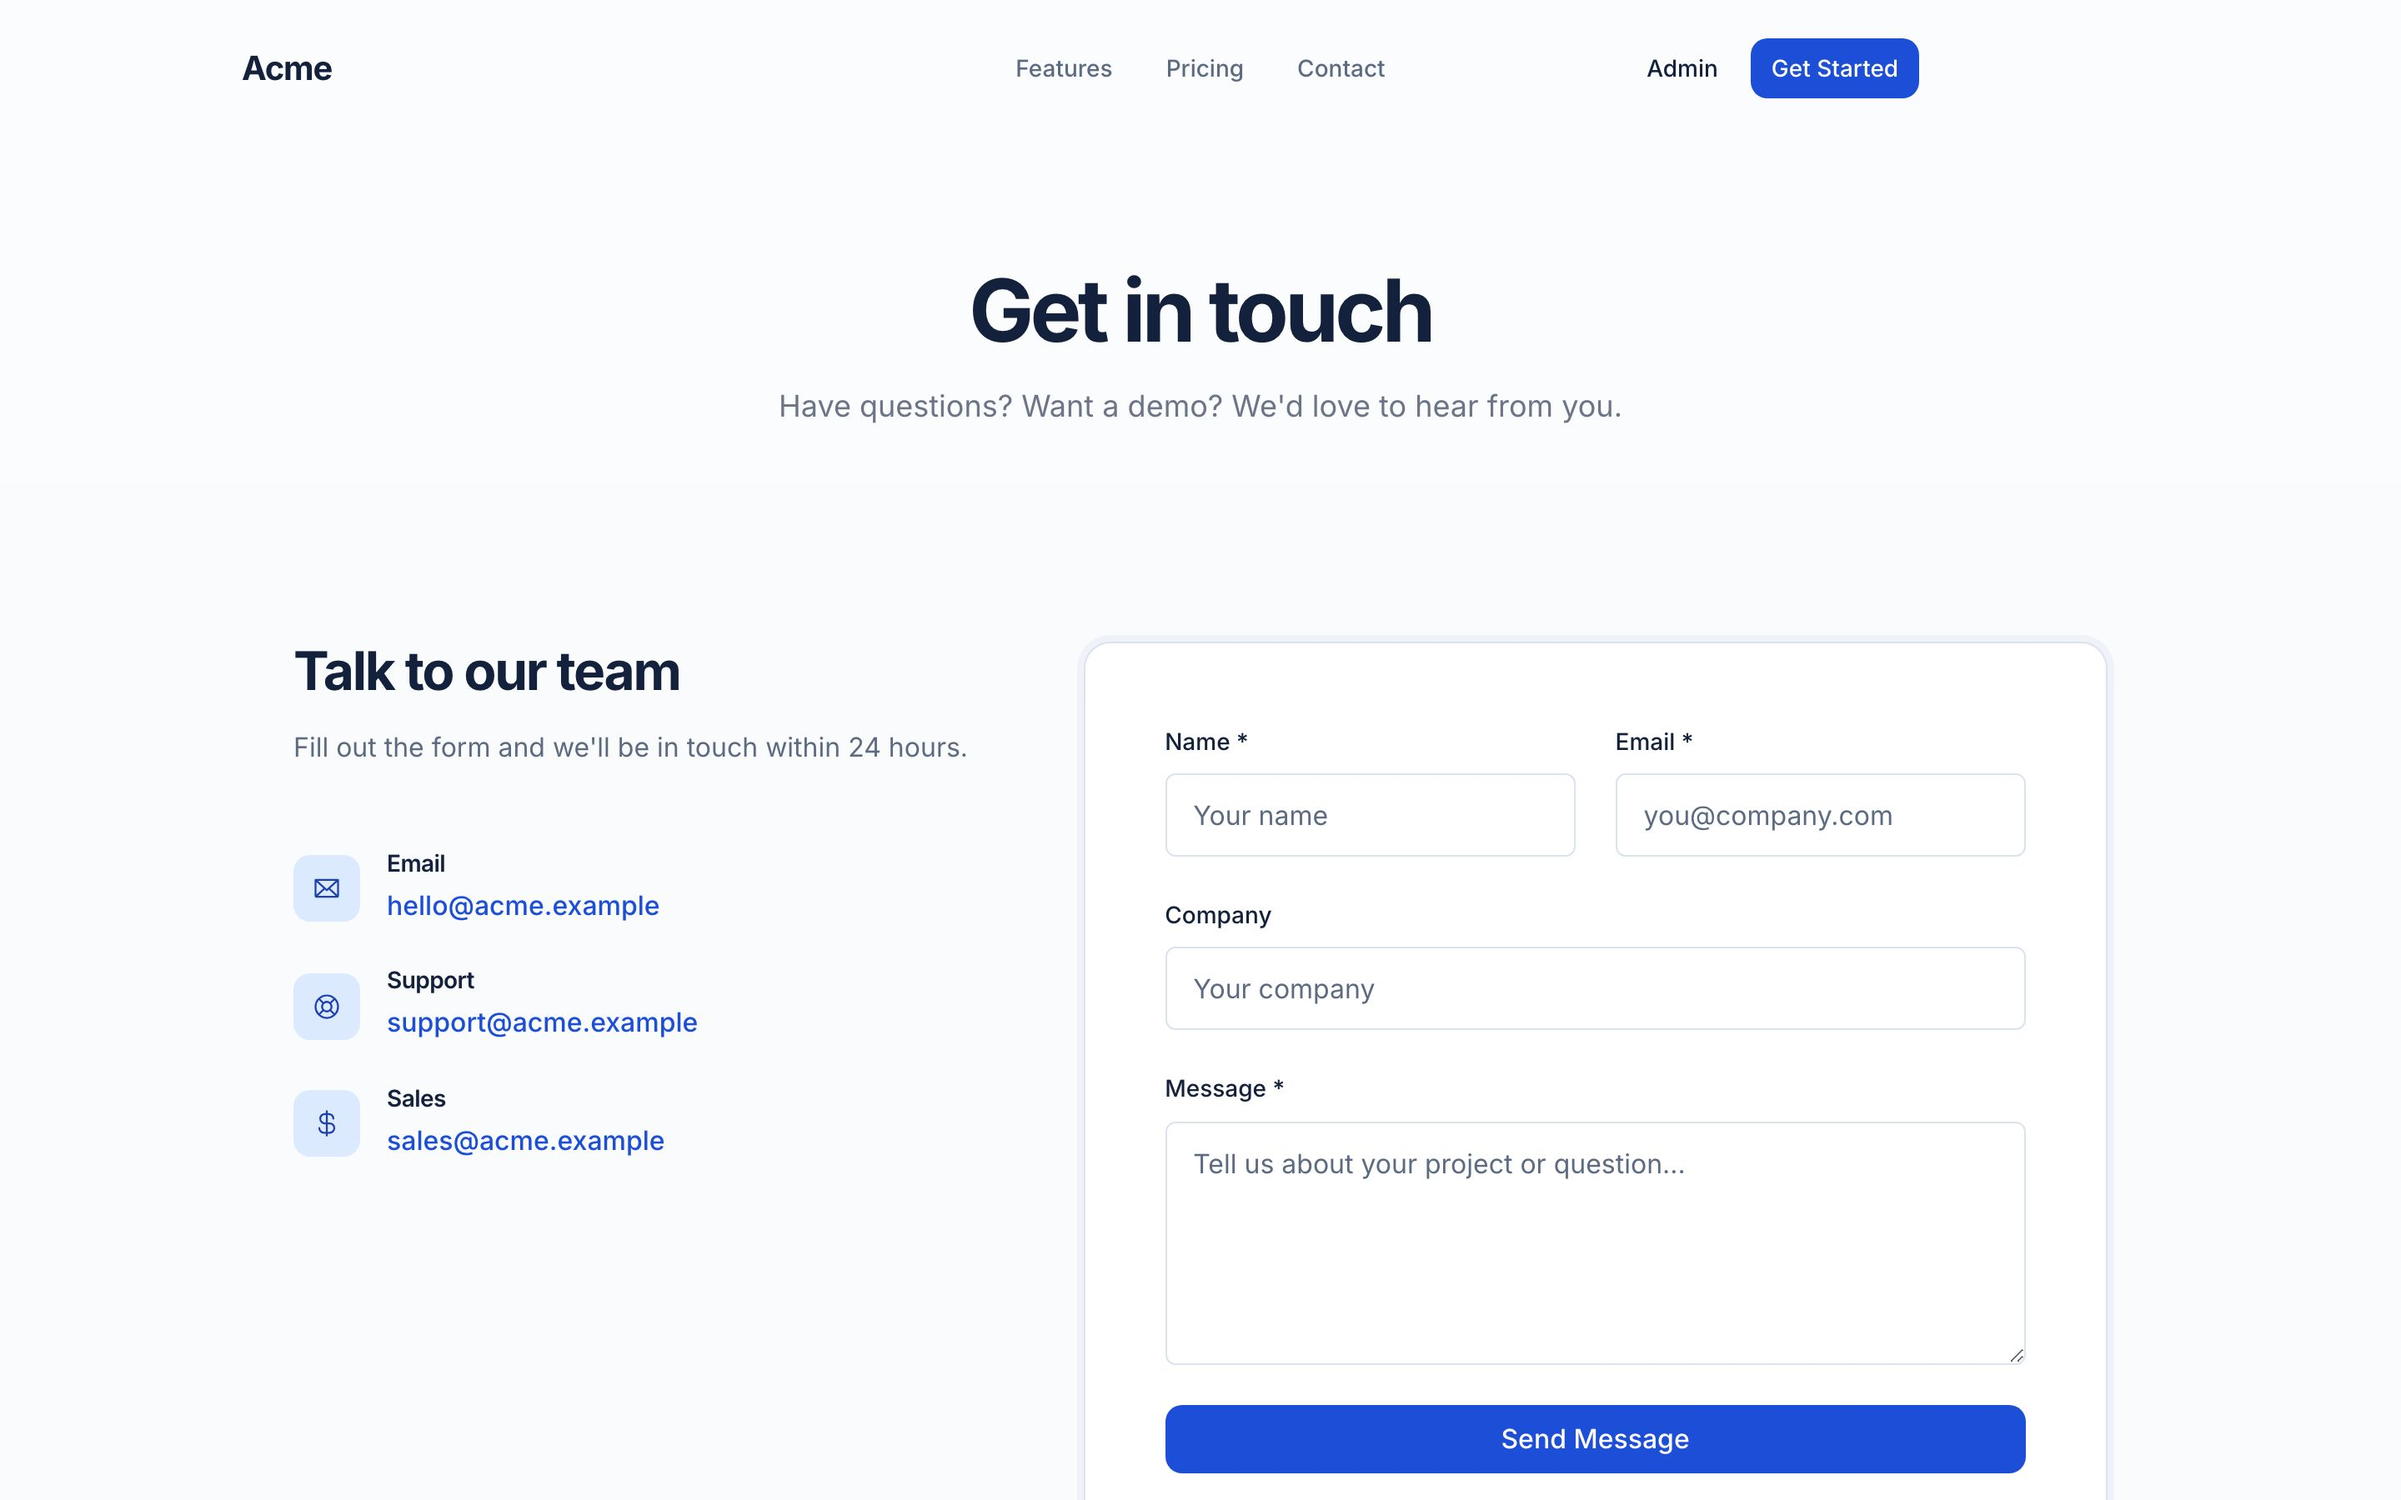
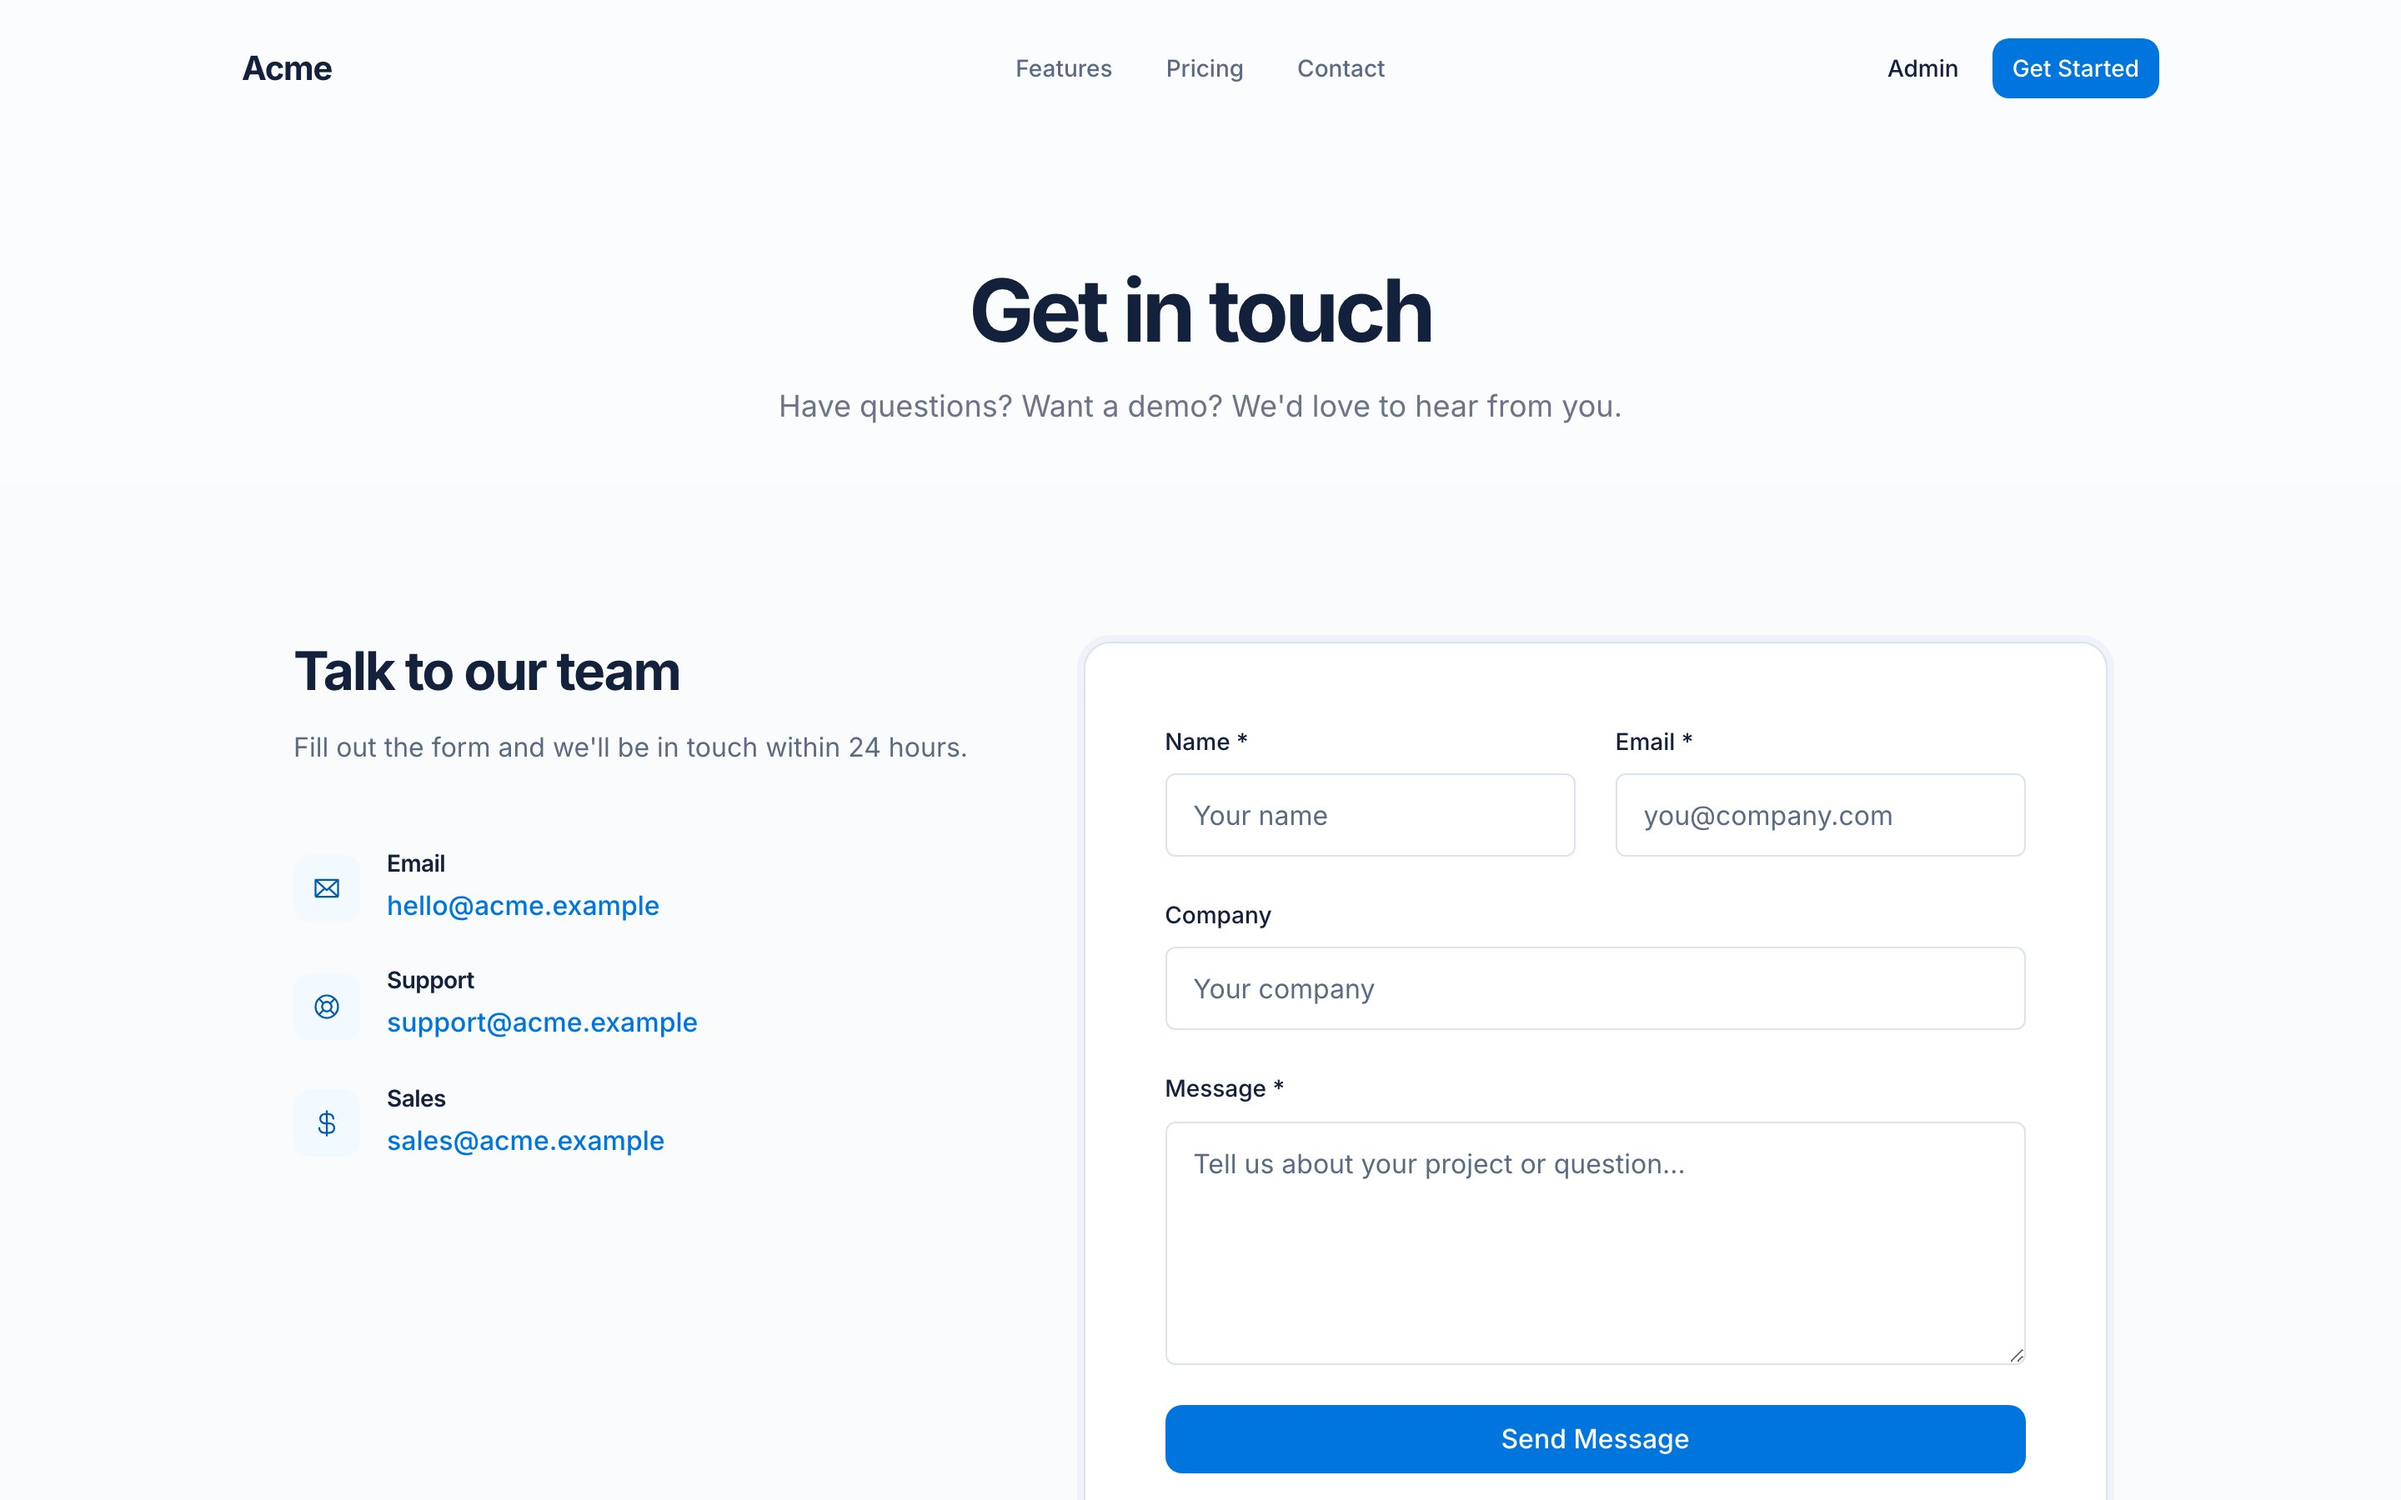
feat(marketing): refine the blue color system

diff --git a/templates/marketing-cloudflare/src/styles/tokens.css b/templates/marketing-cloudflare/src/styles/tokens.css
@@ -12,14 +12,14 @@
 		color-scheme: light dark;
 
 		/* Accent scale */
-		--heat-4: #1d4ed80a;
-		--heat-8: #1d4ed814;
-		--heat-12: #1d4ed81f;
-		--heat-16: #1d4ed829;
-		--heat-20: #1d4ed833;
-		--heat-40: #1d4ed866;
-		--heat-90: #1d4ed8e6;
-		--heat-100: #1d4ed8ff;
+		--heat-4: #0075de0a;
+		--heat-8: #0075de14;
+		--heat-12: #0075de1f;
+		--heat-16: #0075de29;
+		--heat-20: #0075de33;
+		--heat-40: #0075de66;
+		--heat-90: #0075dee6;
+		--heat-100: #0075deff;
 
 		/* Neutral scale */
 		--accent-black: #14213dff;
@@ -47,9 +47,9 @@
 		--color-surface: var(--surface);
 		--color-surface-raised: var(--surface-raised);
 		--color-primary: var(--heat-100);
-		--color-primary-dark: var(--heat-90);
+		--color-primary-dark: #005bab;
 		--color-primary-light: var(--heat-12);
-		--color-accent: var(--heat-100);
+		--color-accent: #005bab;
 		--color-accent-light: var(--heat-12);
 		--color-success: #15803d;
 		--color-warning: #a16207;
@@ -58,8 +58,9 @@
 
 		/* Public-template compatibility aliases */
 		--color-brand: var(--color-primary);
-		--color-brand-strong: #1e40af;
-		--color-brand-soft: #dbeafe;
+		--color-brand-hover: var(--color-primary-dark);
+		--color-brand-strong: #005bab;
+		--color-brand-soft: #f2f9ff;
 		--color-on-brand: #ffffff;
 		--color-brand-ring: var(--heat-12);
 		--gradient-brand: var(--color-primary);
@@ -73,7 +74,8 @@
 		--button-padding-y: 8px;
 		--button-padding-x: 12px;
 		--button-primary-bg: var(--heat-100);
-		--button-primary-bg-hover: var(--heat-90);
+		--button-primary-bg-hover: #006bcb;
+		--button-primary-bg-active: #005bab;
 		--button-primary-fg: var(--accent-white);
 		--button-secondary-bg: var(--black-alpha-4);
 		--button-secondary-bg-hover: var(--black-alpha-6);
@@ -162,8 +164,9 @@
 			--color-border: var(--border-muted);
 			--color-surface: var(--surface);
 			--color-surface-raised: var(--surface-raised);
-			--color-brand-strong: #3b82f6;
-			--color-brand-soft: #1e3a5f;
+			--color-brand-hover: #82c1f5;
+			--color-brand-strong: #82c1f5;
+			--color-brand-soft: #163a5c;
 			--color-on-brand: #0b1220;
 			--button-secondary-bg: var(--black-alpha-4);
 			--button-secondary-bg-hover: var(--black-alpha-6);
@@ -200,8 +203,9 @@
 		--color-border: var(--border-muted);
 		--color-surface: var(--surface);
 		--color-surface-raised: var(--surface-raised);
-		--color-brand-strong: #3b82f6;
-		--color-brand-soft: #1e3a5f;
+		--color-brand-hover: #82c1f5;
+		--color-brand-strong: #82c1f5;
+		--color-brand-soft: #163a5c;
 		--color-on-brand: #0b1220;
 		--button-secondary-bg: var(--black-alpha-4);
 		--button-secondary-bg-hover: var(--black-alpha-6);

diff --git a/templates/marketing/src/styles/tokens.css b/templates/marketing/src/styles/tokens.css
@@ -12,14 +12,14 @@
 		color-scheme: light dark;
 
 		/* Accent scale */
-		--heat-4: #1d4ed80a;
-		--heat-8: #1d4ed814;
-		--heat-12: #1d4ed81f;
-		--heat-16: #1d4ed829;
-		--heat-20: #1d4ed833;
-		--heat-40: #1d4ed866;
-		--heat-90: #1d4ed8e6;
-		--heat-100: #1d4ed8ff;
+		--heat-4: #0075de0a;
+		--heat-8: #0075de14;
+		--heat-12: #0075de1f;
+		--heat-16: #0075de29;
+		--heat-20: #0075de33;
+		--heat-40: #0075de66;
+		--heat-90: #0075dee6;
+		--heat-100: #0075deff;
 
 		/* Neutral scale */
 		--accent-black: #14213dff;
@@ -47,9 +47,9 @@
 		--color-surface: var(--surface);
 		--color-surface-raised: var(--surface-raised);
 		--color-primary: var(--heat-100);
-		--color-primary-dark: var(--heat-90);
+		--color-primary-dark: #005bab;
 		--color-primary-light: var(--heat-12);
-		--color-accent: var(--heat-100);
+		--color-accent: #005bab;
 		--color-accent-light: var(--heat-12);
 		--color-success: #15803d;
 		--color-warning: #a16207;
@@ -58,8 +58,9 @@
 
 		/* Public-template compatibility aliases */
 		--color-brand: var(--color-primary);
-		--color-brand-strong: #1e40af;
-		--color-brand-soft: #dbeafe;
+		--color-brand-hover: var(--color-primary-dark);
+		--color-brand-strong: #005bab;
+		--color-brand-soft: #f2f9ff;
 		--color-on-brand: #ffffff;
 		--color-brand-ring: var(--heat-12);
 		--gradient-brand: var(--color-primary);
@@ -73,7 +74,8 @@
 		--button-padding-y: 8px;
 		--button-padding-x: 12px;
 		--button-primary-bg: var(--heat-100);
-		--button-primary-bg-hover: var(--heat-90);
+		--button-primary-bg-hover: #006bcb;
+		--button-primary-bg-active: #005bab;
 		--button-primary-fg: var(--accent-white);
 		--button-secondary-bg: var(--black-alpha-4);
 		--button-secondary-bg-hover: var(--black-alpha-6);
@@ -162,8 +164,9 @@
 			--color-border: var(--border-muted);
 			--color-surface: var(--surface);
 			--color-surface-raised: var(--surface-raised);
-			--color-brand-strong: #3b82f6;
-			--color-brand-soft: #1e3a5f;
+			--color-brand-hover: #82c1f5;
+			--color-brand-strong: #82c1f5;
+			--color-brand-soft: #163a5c;
 			--color-on-brand: #0b1220;
 			--button-secondary-bg: var(--black-alpha-4);
 			--button-secondary-bg-hover: var(--black-alpha-6);
@@ -200,8 +203,9 @@
 		--color-border: var(--border-muted);
 		--color-surface: var(--surface);
 		--color-surface-raised: var(--surface-raised);
-		--color-brand-strong: #3b82f6;
-		--color-brand-soft: #1e3a5f;
+		--color-brand-hover: #82c1f5;
+		--color-brand-strong: #82c1f5;
+		--color-brand-soft: #163a5c;
 		--color-on-brand: #0b1220;
 		--button-secondary-bg: var(--black-alpha-4);
 		--button-secondary-bg-hover: var(--black-alpha-6);

diff --git a/templates/marketing-cloudflare/src/styles/theme.css b/templates/marketing-cloudflare/src/styles/theme.css
@@ -7,51 +7,66 @@
 */
 
 :root {
-	--heat-100: #1d4ed8;
-	--heat-90: #1d4ed8e6;
-	--heat-40: #1d4ed866;
-	--heat-20: #1d4ed833;
-	--heat-12: #1d4ed81f;
-	--heat-8: #1d4ed814;
-	--heat-4: #1d4ed80a;
+	--heat-100: #0075de;
+	--heat-90: #0075dee6;
+	--heat-40: #0075de66;
+	--heat-20: #0075de33;
+	--heat-12: #0075de1f;
+	--heat-8: #0075de14;
+	--heat-4: #0075de0a;
 	--color-primary: var(--heat-100);
-	--color-primary-dark: var(--heat-90);
+	--color-primary-dark: #005bab;
 	--color-primary-light: var(--heat-12);
-	--color-accent: var(--heat-100);
+	--color-accent: #005bab;
 	--color-accent-light: var(--heat-12);
+	--color-brand-hover: #005bab;
+	--color-brand-strong: #005bab;
+	--color-brand-soft: #f2f9ff;
+	--button-primary-bg-hover: #006bcb;
+	--button-primary-bg-active: #005bab;
 	--button-primary-fg: #ffffff;
 }
 
 :root.dark {
-	--heat-100: #60a5fa;
-	--heat-90: #60a5fae6;
-	--heat-40: #60a5fa66;
-	--heat-20: #60a5fa33;
-	--heat-12: #60a5fa1f;
-	--heat-8: #60a5fa14;
-	--heat-4: #60a5fa0a;
+	--heat-100: #62aef0;
+	--heat-90: #62aef0e6;
+	--heat-40: #62aef066;
+	--heat-20: #62aef033;
+	--heat-12: #62aef01f;
+	--heat-8: #62aef014;
+	--heat-4: #62aef00a;
 	--color-primary: var(--heat-100);
-	--color-primary-dark: var(--heat-90);
+	--color-primary-dark: #3d98e6;
 	--color-primary-light: var(--heat-12);
-	--color-accent: var(--heat-100);
+	--color-accent: #82c1f5;
 	--color-accent-light: var(--heat-12);
+	--color-brand-hover: #82c1f5;
+	--color-brand-strong: #82c1f5;
+	--color-brand-soft: #163a5c;
+	--button-primary-bg-hover: #82c1f5;
+	--button-primary-bg-active: #3d98e6;
 	--button-primary-fg: #0b1220;
 }
 
 @media (prefers-color-scheme: dark) {
 	:root:not(.light) {
-		--heat-100: #60a5fa;
-		--heat-90: #60a5fae6;
-		--heat-40: #60a5fa66;
-		--heat-20: #60a5fa33;
-		--heat-12: #60a5fa1f;
-		--heat-8: #60a5fa14;
-		--heat-4: #60a5fa0a;
+		--heat-100: #62aef0;
+		--heat-90: #62aef0e6;
+		--heat-40: #62aef066;
+		--heat-20: #62aef033;
+		--heat-12: #62aef01f;
+		--heat-8: #62aef014;
+		--heat-4: #62aef00a;
 		--color-primary: var(--heat-100);
-		--color-primary-dark: var(--heat-90);
+		--color-primary-dark: #3d98e6;
 		--color-primary-light: var(--heat-12);
-		--color-accent: var(--heat-100);
+		--color-accent: #82c1f5;
 		--color-accent-light: var(--heat-12);
+		--color-brand-hover: #82c1f5;
+		--color-brand-strong: #82c1f5;
+		--color-brand-soft: #163a5c;
+		--button-primary-bg-hover: #82c1f5;
+		--button-primary-bg-active: #3d98e6;
 		--button-primary-fg: #0b1220;
 	}
 }

diff --git a/templates/marketing/src/styles/theme.css b/templates/marketing/src/styles/theme.css
@@ -7,51 +7,66 @@
 */
 
 :root {
-	--heat-100: #1d4ed8;
-	--heat-90: #1d4ed8e6;
-	--heat-40: #1d4ed866;
-	--heat-20: #1d4ed833;
-	--heat-12: #1d4ed81f;
-	--heat-8: #1d4ed814;
-	--heat-4: #1d4ed80a;
+	--heat-100: #0075de;
+	--heat-90: #0075dee6;
+	--heat-40: #0075de66;
+	--heat-20: #0075de33;
+	--heat-12: #0075de1f;
+	--heat-8: #0075de14;
+	--heat-4: #0075de0a;
 	--color-primary: var(--heat-100);
-	--color-primary-dark: var(--heat-90);
+	--color-primary-dark: #005bab;
 	--color-primary-light: var(--heat-12);
-	--color-accent: var(--heat-100);
+	--color-accent: #005bab;
 	--color-accent-light: var(--heat-12);
+	--color-brand-hover: #005bab;
+	--color-brand-strong: #005bab;
+	--color-brand-soft: #f2f9ff;
+	--button-primary-bg-hover: #006bcb;
+	--button-primary-bg-active: #005bab;
 	--button-primary-fg: #ffffff;
 }
 
 :root.dark {
-	--heat-100: #60a5fa;
-	--heat-90: #60a5fae6;
-	--heat-40: #60a5fa66;
-	--heat-20: #60a5fa33;
-	--heat-12: #60a5fa1f;
-	--heat-8: #60a5fa14;
-	--heat-4: #60a5fa0a;
+	--heat-100: #62aef0;
+	--heat-90: #62aef0e6;
+	--heat-40: #62aef066;
+	--heat-20: #62aef033;
+	--heat-12: #62aef01f;
+	--heat-8: #62aef014;
+	--heat-4: #62aef00a;
 	--color-primary: var(--heat-100);
-	--color-primary-dark: var(--heat-90);
+	--color-primary-dark: #3d98e6;
 	--color-primary-light: var(--heat-12);
-	--color-accent: var(--heat-100);
+	--color-accent: #82c1f5;
 	--color-accent-light: var(--heat-12);
+	--color-brand-hover: #82c1f5;
+	--color-brand-strong: #82c1f5;
+	--color-brand-soft: #163a5c;
+	--button-primary-bg-hover: #82c1f5;
+	--button-primary-bg-active: #3d98e6;
 	--button-primary-fg: #0b1220;
 }
 
 @media (prefers-color-scheme: dark) {
 	:root:not(.light) {
-		--heat-100: #60a5fa;
-		--heat-90: #60a5fae6;
-		--heat-40: #60a5fa66;
-		--heat-20: #60a5fa33;
-		--heat-12: #60a5fa1f;
-		--heat-8: #60a5fa14;
-		--heat-4: #60a5fa0a;
+		--heat-100: #62aef0;
+		--heat-90: #62aef0e6;
+		--heat-40: #62aef066;
+		--heat-20: #62aef033;
+		--heat-12: #62aef01f;
+		--heat-8: #62aef014;
+		--heat-4: #62aef00a;
 		--color-primary: var(--heat-100);
-		--color-primary-dark: var(--heat-90);
+		--color-primary-dark: #3d98e6;
 		--color-primary-light: var(--heat-12);
-		--color-accent: var(--heat-100);
+		--color-accent: #82c1f5;
 		--color-accent-light: var(--heat-12);
+		--color-brand-hover: #82c1f5;
+		--color-brand-strong: #82c1f5;
+		--color-brand-soft: #163a5c;
+		--button-primary-bg-hover: #82c1f5;
+		--button-primary-bg-active: #3d98e6;
 		--button-primary-fg: #0b1220;
 	}
 }
